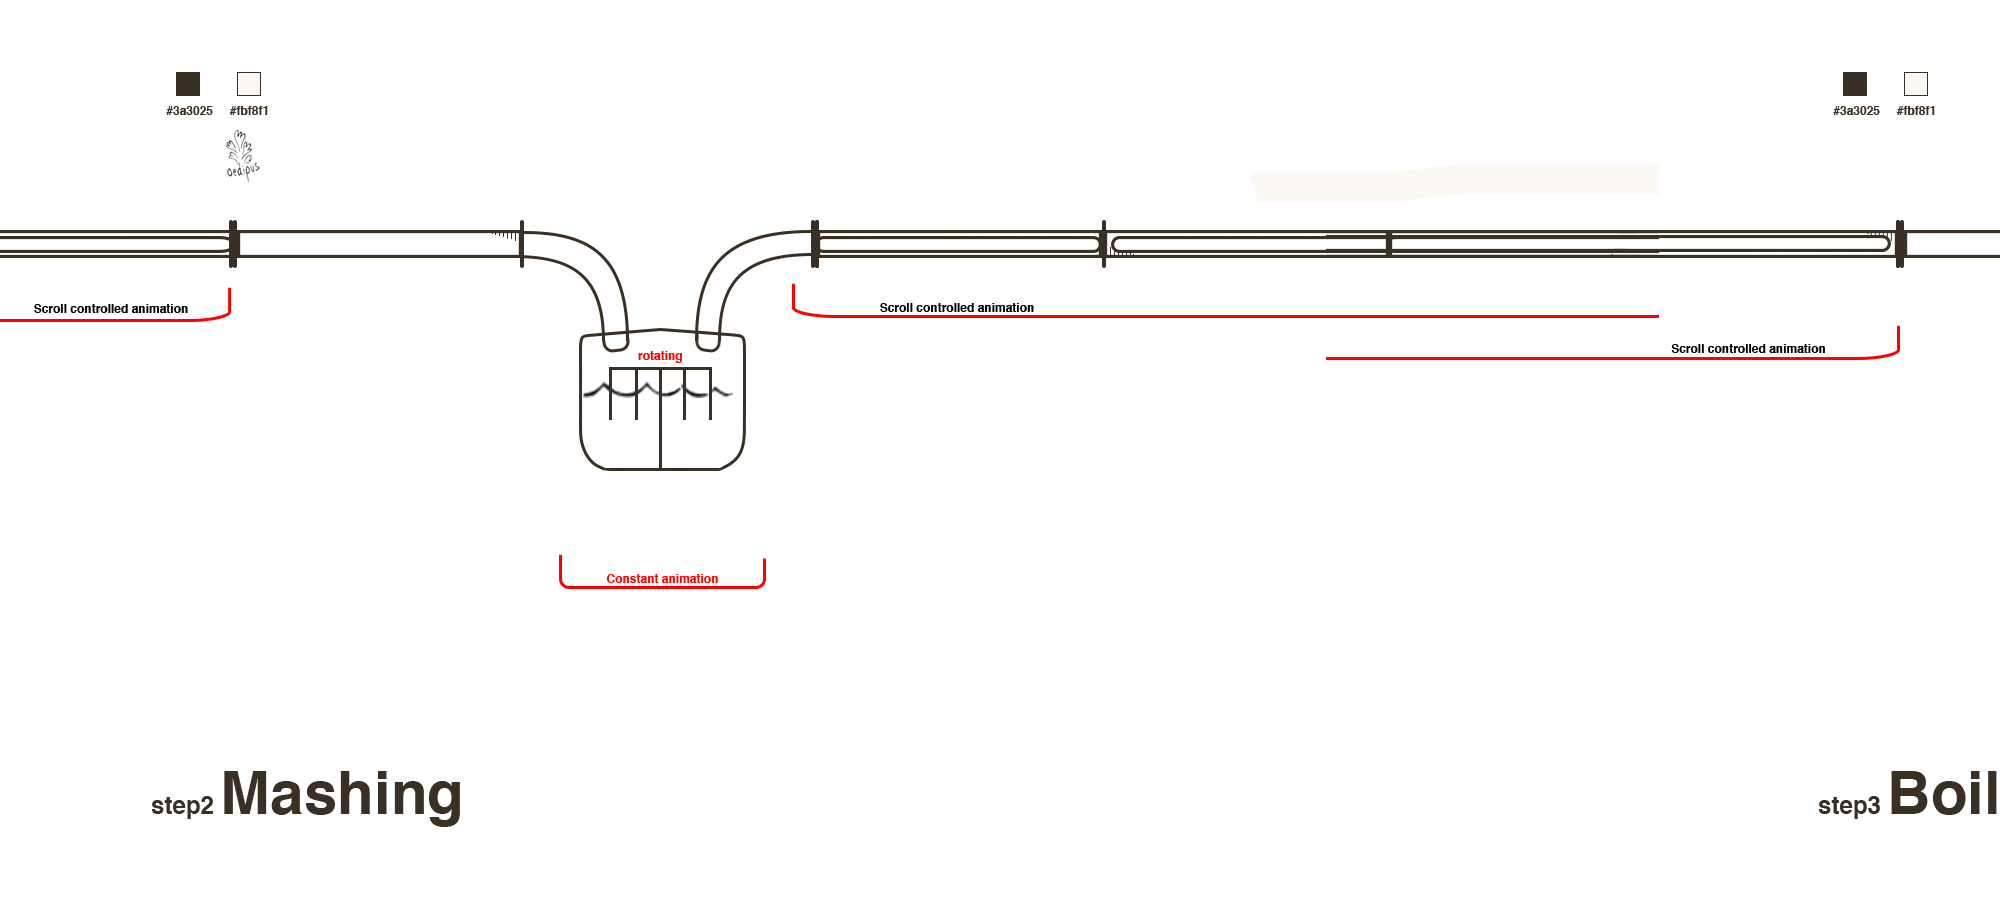
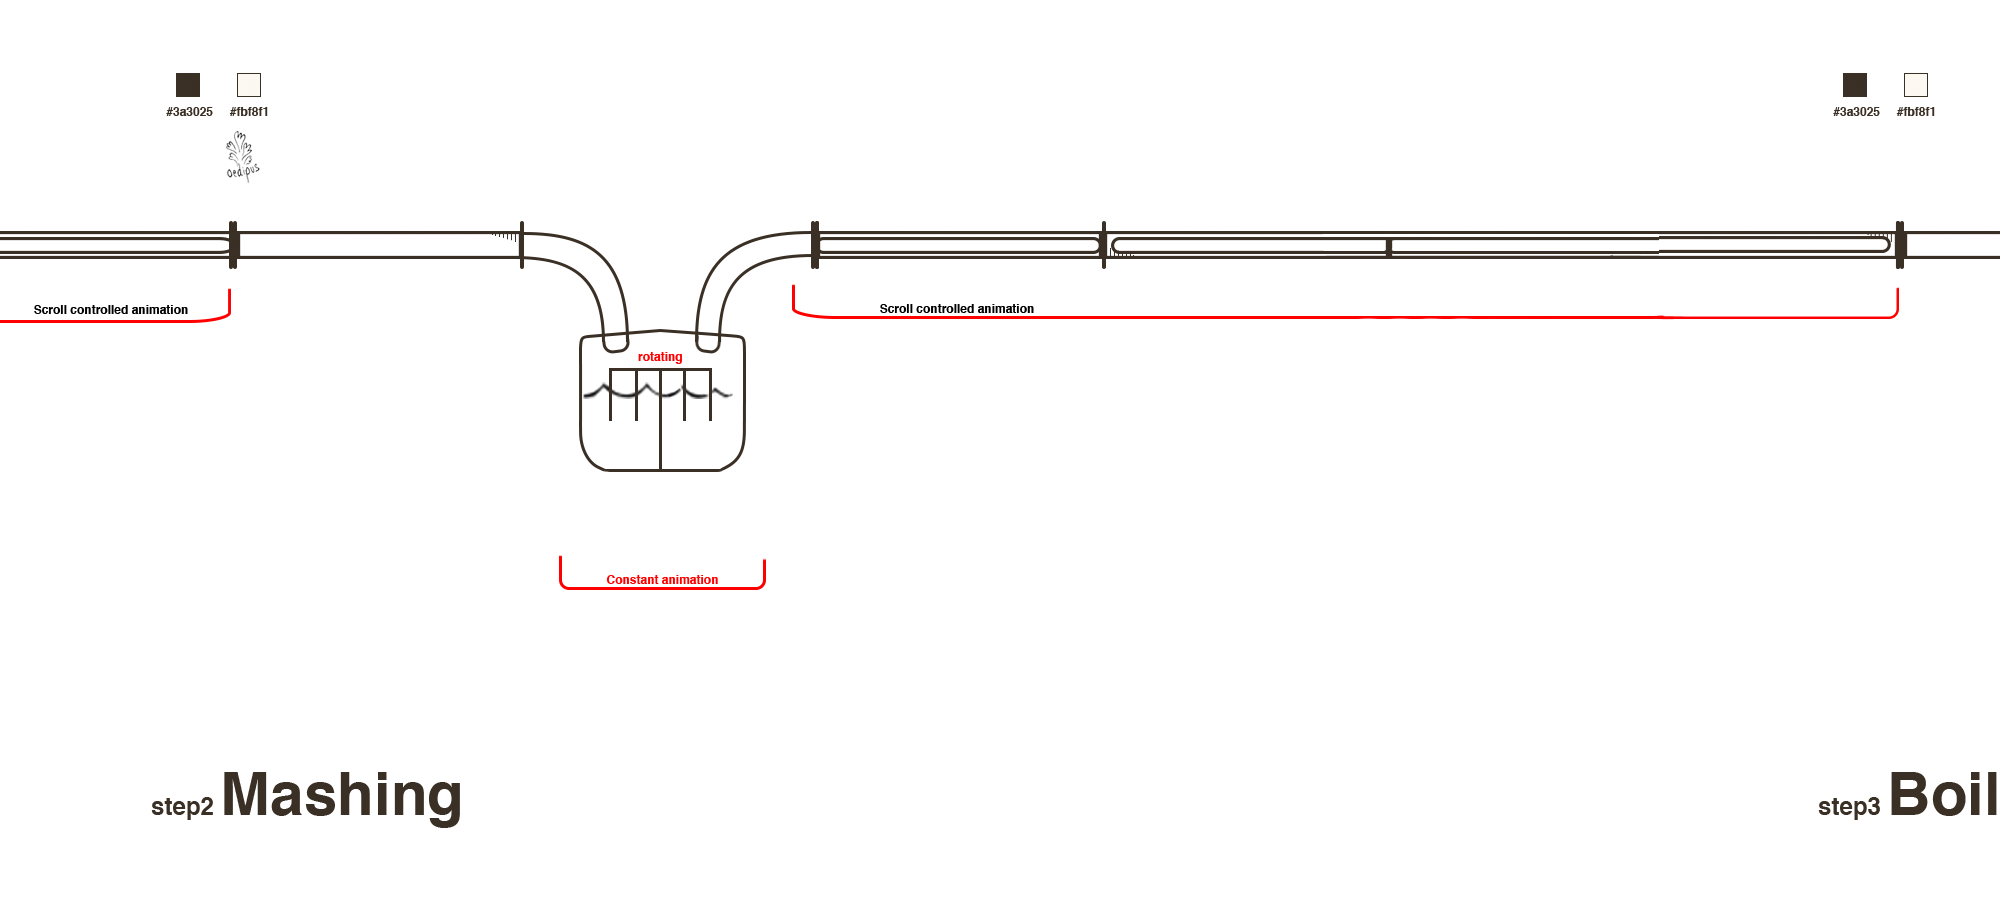
step-2 png update

diff --git a/animation/static/animation/js/main.js b/animation/static/animation/js/main.js
@@ -15,7 +15,7 @@ var e = document.body,
     $mouse = $('.c-mouse'),
     $millmash = $('.c-milling-mashing'),
     $btlnav = $('.e-navigation-bottle'),
-    $fl = ('.c-flying-lemon');
+    $fl = $('.c-flying-lemon');
     $ev = $('.events').text(events);
 
 /* set the transform value with tweenMax at beginning & transform all initial components to their places*/
@@ -60,7 +60,6 @@ function moveBackground(f) {
 
 function checkPosition() {
     /* Check the current transform value */
-    consoleLog('checkPosition;');
     var n = parseInt($bg.css('transform').split(',')[4]);
     if (n < -7800) {
         /* sets new position at the start of the film  */
@@ -91,10 +90,10 @@ jQuery('.c-brewing-background-inner')
         checkbeerBottleState(n);
         displayBgPosition(n);
         animateNavigation(n + e.deltaX);
+        onUpdate:$.throttle( 510, checkPosition);
     })
     .bind('moveend', function() {
-        var n = parseInt($bg.css('transform').split(',')[4]);
-        translateValue = n;
+        translateValue = parseInt($bg.css('transform').split(',')[4]);
         checkPosition();
     });
 
@@ -145,7 +144,7 @@ function switchDirection() {
 var animBreakPoint1 = -300;
 
 function checkbeerBottleState(n) {
-    if (n < animBreakPoint1) {
+    if (n <= animBreakPoint1) {
         $btl.addClass('milled-mashed');
     }
     else if (n > animBreakPoint1) {
@@ -172,11 +171,11 @@ function animateNavigation(value) {
     roadToTravel = (btlMaxRoad/100) * percentToTravel;
     // consoleLog('roadToTravel: ' + roadToTravel + 'px')  ;
     if(roadToTravel < 11) { // Keep nav bottle from overthrowing its endpoint
-        TweenMax.to($btlnav, 2, {left: 11 + "px", ease: Power4.easeNone});
+        TweenMax.to($btlnav, 1, {left: 11 + "px", ease: Power4.easeNone});
     } else if(roadToTravel > btlMaxRight) {
-        TweenMax.to($btlnav, 2, {left: btlMaxRight + "px", ease: Power0.easeNone});
+        TweenMax.to($btlnav, 1, {left: btlMaxRight + "px", ease: Power0.easeNone});
     } else {
-        TweenMax.to($btlnav, 2, {left: roadToTravel + "px", ease: Power0.easeNone});
+        TweenMax.to($btlnav, 1, {left: roadToTravel + "px", ease: Power0.easeNone});
     }
     // consoleLog('percentToTravel: ' + percentToTravel);
     // consoleLog('translateValue: ' + value);
@@ -187,16 +186,14 @@ function btlNavigationSet(translateValue) {
     // FIRES ALWAYS
     percentToTravel = parseInt(-translateValue / 80);
     s = (maxRoad/100) * percentToTravel;
-    consoleLog('s: ' + s);
-    consoleLog('btlMaxRight ' + btlMaxRight);
-    consoleLog(translateValue);
+
     if(s < 11) {
         TweenMax.set($btlnav, {left: 11 + "px"});
     } else if (s < btlMaxRight && s > 960) {
         consoleLog('set to '+ btlMaxRight);
         TweenMax.set($btlnav, {left: btlMaxRight + "px"});
     } else if (translateValue < -5000){ // Some if-else's to check if the film is changing from right-left or from left-right
-        TweenMax.set($btlnav, {left: s + 100 + "px"});
+        TweenMax.set($btlnav, {left: s + ((maxRoad/100)*5)  + "px"});
     } else {
         TweenMax.set($btlnav, {left: s + "px"});
     }
